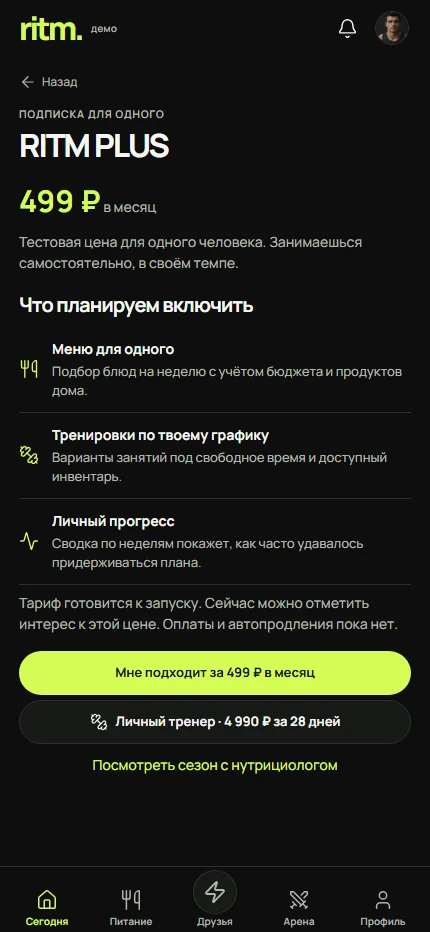
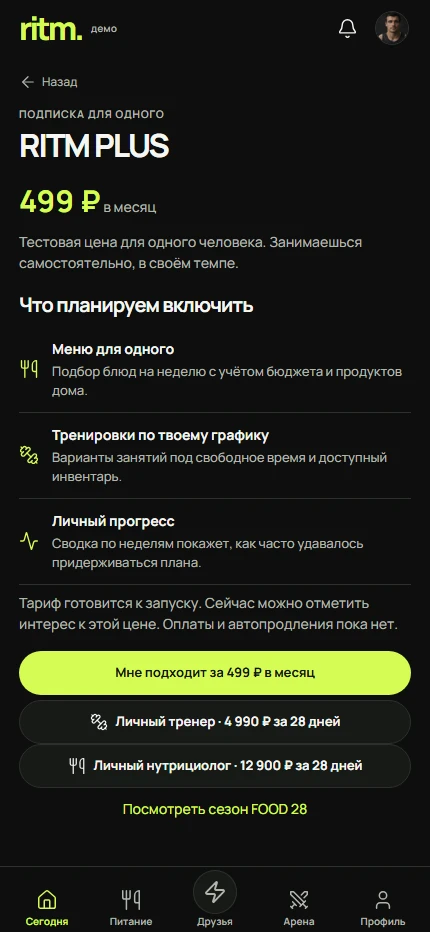
Publish the introductory nutrition rate in the meeting demo

Changed region(s): [[0.1512, 0.809, 0.8465, 0.8712]]

diff --git a/docs/meeting/screens/index.html b/docs/meeting/screens/index.html
@@ -1,3 +1,3 @@
 <!DOCTYPE html>
 
-<html lang="ru"><meta charset="utf-8"/><meta content="width=device-width,initial-scale=1" name="viewport"/><title>ritm. — Экраны приложения</title><link href="../assets/fonts.css" rel="stylesheet"/><style>*{box-sizing:border-box}body{margin:0 auto;background:#0d0e0d;color:#f5f6f2;max-width:1100px;padding:24px 18px 70px;font:500 15px/1.45 "Manrope Variable",sans-serif}header{display:flex;align-items:center;justify-content:space-between}header b{font-size:30px;letter-spacing:-.08em;color:#d5fc53}a{color:#d5fc53;text-underline-offset:.2em}h1{letter-spacing:-.05em;font-size:clamp(31px,6vw,54px);line-height:1.1}h2{border-top:1px solid #353831;padding-top:20px;margin:30px 0 12px}.grid{display:grid;grid-template-columns:repeat(auto-fit,minmax(min(158px,44%),1fr));gap:15px}.image{display:block;max-width:240px;border-radius:14px;overflow:hidden;border:1px solid #343930}img{display:block;width:100%;height:auto}h3{font-size:15px;margin:8px 0 1px}p{margin:4px 0;color:#b1b6ac;font-size:13px}article>p a{display:inline-block;padding:5px 0}</style><header><b>ritm.</b><a href="../?screen=programs">Открыть приложение ↗</a></header><h1>Экраны RITM</h1><p>Снимки работающего приложения. Нажми на экран, чтобы рассмотреть детали.</p><a href="RITM-meeting.pdf">PDF для встречи · Founder Preview 1.0</a><section id="solo"><h2>Начать самостоятельно</h2><div class="grid"><article><a class="image" href="solo-programs-390.webp"><img alt="Выбрать программу для себя" loading="lazy" src="solo-programs-390.webp"/></a><h3>Выбрать программу для себя</h3><p><a href="solo-programs-375.webp">375 px</a> · <a href="solo-programs-390.webp">390 px</a> · <a href="solo-programs-430.webp">430 px</a></p></article><article><a class="image" href="plus-390.webp"><img alt="RITM PLUS · тариф для одного" loading="lazy" src="plus-390.webp"/></a><h3>Личный тариф за 499 ₽ в месяц</h3><p><a href="plus-375.webp">375 px</a> · <a href="plus-390.webp">390 px</a> · <a href="plus-430.webp">430 px</a></p></article><article><a class="image" href="coach-390.webp"><img alt="Личный тренер на 28 дней" loading="lazy" src="coach-390.webp"/></a><h3>Личный тренер · 4 990 ₽ за 28 дней</h3><p><a href="coach-375.webp">375 px</a> · <a href="coach-390.webp">390 px</a> · <a href="coach-430.webp">430 px</a></p></article><article><a class="image" href="solo-question-390.webp"><img alt="Получить подсказку по двум ответам" loading="lazy" src="solo-question-390.webp"/></a><h3>Получить подсказку по двум ответам</h3><p><a href="solo-question-375.webp">375 px</a> · <a href="solo-question-390.webp">390 px</a> · <a href="solo-question-430.webp">430 px</a></p></article><article><a class="image" href="solo-food-390.webp"><img alt="Выбрать блюдо на одного" loading="lazy" src="solo-food-390.webp"/></a><h3>Выбрать блюдо на одного</h3><p><a href="solo-food-375.webp">375 px</a> · <a href="solo-food-390.webp">390 px</a> · <a href="solo-food-430.webp">430 px</a></p></article><article><a class="image" href="solo-friends-390.webp"><img alt="Предложить другу выбрать ход" loading="lazy" src="solo-friends-390.webp"/></a><h3>Предложить другу выбрать ход</h3><p><a href="solo-friends-375.webp">375 px</a> · <a href="solo-friends-390.webp">390 px</a> · <a href="solo-friends-430.webp">430 px</a></p></article></div></section><section><h2>Первый вход</h2><div class="grid"><article><a class="image" href="welcome-390.webp"><img alt="Первое открытие" loading="lazy" src="welcome-390.webp"/></a><h3>Первое открытие</h3><p><a href="welcome-375.webp">375 px</a> · <a href="welcome-390.webp">390 px</a> · <a href="welcome-430.webp">430 px</a></p></article><article><a class="image" href="invite-code-390.webp"><img alt="Вход по приглашению" loading="lazy" src="invite-code-390.webp"/></a><h3>Вход по приглашению</h3><p><a href="invite-code-390.webp">390 px</a></p></article><article><a class="image" href="start-1-390.webp"><img alt="С чего хочешь начать?" loading="lazy" src="start-1-390.webp"/></a><h3>С чего хочешь начать?</h3><p><a href="start-1-390.webp">390 px</a></p></article><article><a class="image" href="start-2-390.webp"><img alt="Сколько времени есть в день?" loading="lazy" src="start-2-390.webp"/></a><h3>Сколько времени есть в день?</h3><p><a href="start-2-390.webp">390 px</a></p></article><article><a class="image" href="guest-390.webp"><img alt="Гостевой вход" loading="lazy" src="guest-390.webp"/></a><h3>Гостевой вход</h3><p><a href="guest-390.webp">390 px</a></p></article></div></section><section><h2>Сегодня</h2><div class="grid"><article><a class="image" href="today-390.webp"><img alt="В своём ритме" loading="lazy" src="today-390.webp"/></a><h3>В своём ритме</h3><p><a href="today-375.webp">375 px</a> · <a href="today-390.webp">390 px</a> · <a href="today-430.webp">430 px</a></p></article><article><a class="image" href="time-390.webp"><img alt="Доступное время" loading="lazy" src="time-390.webp"/></a><h3>Доступное время</h3><p><a href="time-390.webp">390 px</a></p></article><article><a class="image" href="plan-390.webp"><img alt="Мой план" loading="lazy" src="plan-390.webp"/></a><h3>Мой план</h3><p><a href="plan-390.webp">390 px</a></p></article><article><a class="image" href="ai-390.webp"><img alt="Подстроить план" loading="lazy" src="ai-390.webp"/></a><h3>Подстроить план</h3><p><a href="ai-390.webp">390 px</a></p></article><article><a class="image" href="notifications-390.webp"><img alt="Уведомления" loading="lazy" src="notifications-390.webp"/></a><h3>Уведомления</h3><p><a href="notifications-390.webp">390 px</a></p></article></div></section><section><h2>Питание</h2><div class="grid"><article><a class="image" href="food-390.webp"><img alt="Твоё питание" loading="lazy" src="food-390.webp"/></a><h3>Твоё питание</h3><p><a href="food-375.webp">375 px</a> · <a href="food-390.webp">390 px</a> · <a href="food-430.webp">430 px</a></p></article><article><a class="image" href="pantry-390.webp"><img alt="Из того, что дома" loading="lazy" src="pantry-390.webp"/></a><h3>Из того, что дома</h3><p><a href="pantry-390.webp">390 px</a></p></article><article><a class="image" href="recipe-390.webp"><img alt="Рецепт и порции" loading="lazy" src="recipe-390.webp"/></a><h3>Рецепт и порции</h3><p><a href="recipe-390.webp">390 px</a></p></article><article><a class="image" href="week-390.webp"><img alt="Меню на неделю" loading="lazy" src="week-390.webp"/></a><h3>Меню на неделю</h3><p><a href="week-390.webp">390 px</a></p></article><article><a class="image" href="cart-390.webp"><img alt="Продуктовая корзина" loading="lazy" src="cart-390.webp"/></a><h3>Продуктовая корзина</h3><p><a href="cart-390.webp">390 px</a></p></article></div></section><section><h2>Тренировки</h2><div class="grid"><article><a class="image" href="train-390.webp"><img alt="Твои тренировки" loading="lazy" src="train-390.webp"/></a><h3>Твои тренировки</h3><p><a href="train-375.webp">375 px</a> · <a href="train-390.webp">390 px</a> · <a href="train-430.webp">430 px</a></p></article><article><a class="image" href="work-390.webp"><img alt="Силовой блок" loading="lazy" src="work-390.webp"/></a><h3>Силовой блок</h3><p><a href="work-390.webp">390 px</a></p></article><article><a class="image" href="tech-390.webp"><img alt="Техника и варианты" loading="lazy" src="tech-390.webp"/></a><h3>Техника и варианты</h3><p><a href="tech-390.webp">390 px</a></p></article></div></section><section><h2>PULSE</h2><div class="grid"><article><a class="image" href="pulse-390.webp"><img alt="Твой круг и лента" loading="lazy" src="pulse-390.webp"/></a><h3>Твой круг и лента</h3><p><a href="pulse-375.webp">375 px</a> · <a href="pulse-390.webp">390 px</a> · <a href="pulse-430.webp">430 px</a></p></article><article><a class="image" href="reply-390.webp"><img alt="Ответить своим делом" loading="lazy" src="reply-390.webp"/></a><h3>Ответить своим делом</h3><p><a href="reply-390.webp">390 px</a></p></article><article><a class="image" href="circle-390.webp"><img alt="Управление кругом" loading="lazy" src="circle-390.webp"/></a><h3>Управление кругом</h3><p><a href="circle-390.webp">390 px</a></p></article><article><a class="image" href="leave-390.webp"><img alt="Выход из круга" loading="lazy" src="leave-390.webp"/></a><h3>Выход из круга</h3><p><a href="leave-390.webp">390 px</a></p></article><article><a class="image" href="together-390.webp"><img alt="Совместное время" loading="lazy" src="together-390.webp"/></a><h3>Совместное время</h3><p><a href="together-390.webp">390 px</a></p></article></div></section><section><h2>Арена</h2><div class="grid"><article><a class="image" href="arena-390.webp"><img alt="Арена и счёт" loading="lazy" src="arena-390.webp"/></a><h3>Арена и счёт</h3><p><a href="arena-375.webp">375 px</a> · <a href="arena-390.webp">390 px</a> · <a href="arena-430.webp">430 px</a></p></article><article><a class="image" href="game-390.webp"><img alt="История дуэли" loading="lazy" src="game-390.webp"/></a><h3>История дуэли</h3><p><a href="game-390.webp">390 px</a></p></article><article><a class="image" href="setup-390.webp"><img alt="Новая дуэль" loading="lazy" src="setup-390.webp"/></a><h3>Новая дуэль</h3><p><a href="setup-390.webp">390 px</a></p></article><article><a class="image" href="share-390.webp"><img alt="Приглашение другу" loading="lazy" src="share-390.webp"/></a><h3>Приглашение другу</h3><p><a href="share-390.webp">390 px</a></p></article></div></section><section><h2>Профиль</h2><div class="grid"><article><a class="image" href="dna-1-390.webp"><img alt="Какова твоя цель?" loading="lazy" src="dna-1-390.webp"/></a><h3>Какова твоя цель?</h3><p><a href="dna-1-390.webp">390 px</a></p></article><article><a class="image" href="dna-2-390.webp"><img alt="Какое изменение особенно важно?" loading="lazy" src="dna-2-390.webp"/></a><h3>Какое изменение особенно важно?</h3><p><a href="dna-2-390.webp">390 px</a></p></article><article><a class="image" href="dna-3-390.webp"><img alt="Какой уровень тебе близок?" loading="lazy" src="dna-3-390.webp"/></a><h3>Какой уровень тебе близок?</h3><p><a href="dna-3-390.webp">390 px</a></p></article><article><a class="image" href="dna-4-390.webp"><img alt="Как давно ты тренируешься?" loading="lazy" src="dna-4-390.webp"/></a><h3>Как давно ты тренируешься?</h3><p><a href="dna-4-390.webp">390 px</a></p></article><article><a class="image" href="dna-5-390.webp"><img alt="Сколько времени обычно есть?" loading="lazy" src="dna-5-390.webp"/></a><h3>Сколько времени обычно есть?</h3><p><a href="dna-5-390.webp">390 px</a></p></article><article><a class="image" href="dna-6-390.webp"><img alt="Где удобнее заниматься?" loading="lazy" src="dna-6-390.webp"/></a><h3>Где удобнее заниматься?</h3><p><a href="dna-6-390.webp">390 px</a></p></article><article><a class="image" href="dna-7-390.webp"><img alt="Какое оборудование доступно?" loading="lazy" src="dna-7-390.webp"/></a><h3>Какое оборудование доступно?</h3><p><a href="dna-7-390.webp">390 px</a></p></article><article><a class="image" href="dna-8-390.webp"><img alt="Какую еду выбираешь?" loading="lazy" src="dna-8-390.webp"/></a><h3>Какую еду выбираешь?</h3><p><a href="dna-8-390.webp">390 px</a></p></article><article><a class="image" href="dna-9-390.webp"><img alt="Есть продукты, которые исключить?" loading="lazy" src="dna-9-390.webp"/></a><h3>Есть продукты, которые исключить?</h3><p><a href="dna-9-390.webp">390 px</a></p></article><article><a class="image" href="dna-10-390.webp"><img alt="Что важнее при выборе продуктов?" loading="lazy" src="dna-10-390.webp"/></a><h3>Что важнее при выборе продуктов?</h3><p><a href="dna-10-390.webp">390 px</a></p></article><article><a class="image" href="dna-11-390.webp"><img alt="Что чаще мешает продолжать?" loading="lazy" src="dna-11-390.webp"/></a><h3>Что чаще мешает продолжать?</h3><p><a href="dna-11-390.webp">390 px</a></p></article><article><a class="image" href="dna-12-390.webp"><img alt="Что помогает вернуться?" loading="lazy" src="dna-12-390.webp"/></a><h3>Что помогает вернуться?</h3><p><a href="dna-12-390.webp">390 px</a></p></article><article><a class="image" href="dna-13-390.webp"><img alt="Как хочешь заниматься?" loading="lazy" src="dna-13-390.webp"/></a><h3>Как хочешь заниматься?</h3><p><a href="dna-13-390.webp">390 px</a></p></article><article><a class="image" href="dna-map-390.webp"><img alt="Мои предпочтения" loading="lazy" src="dna-map-390.webp"/></a><h3>Мои предпочтения</h3><p><a href="dna-map-390.webp">390 px</a></p></article><article><a class="image" href="profile-390.webp"><img alt="Личный профиль" loading="lazy" src="profile-390.webp"/></a><h3>Личный профиль</h3><p><a href="profile-375.webp">375 px</a> · <a href="profile-390.webp">390 px</a> · <a href="profile-430.webp">430 px</a></p></article><article><a class="image" href="checkin-390.webp"><img alt="Личные замеры" loading="lazy" src="checkin-390.webp"/></a><h3>Личные замеры</h3><p><a href="checkin-390.webp">390 px</a></p></article><article><a class="image" href="seasonplan-390.webp"><img alt="Настройка сезона" loading="lazy" src="seasonplan-390.webp"/></a><h3>Настройка сезона</h3><p><a href="seasonplan-390.webp">390 px</a></p></article><article><a class="image" href="recap-390.webp"><img alt="Недельный отчёт" loading="lazy" src="recap-390.webp"/></a><h3>Недельный отчёт</h3><p><a href="recap-390.webp">390 px</a></p></article><article><a class="image" href="settings-390.webp"><img alt="Настройки и доступ" loading="lazy" src="settings-390.webp"/></a><h3>Настройки и доступ</h3><p><a href="settings-390.webp">390 px</a></p></article><article><a class="image" href="privacy-390.webp"><img alt="Приватность действий" loading="lazy" src="privacy-390.webp"/></a><h3>Приватность действий</h3><p><a href="privacy-390.webp">390 px</a></p></article></div></section><section><h2>Эксперты</h2><div class="grid"><article><a class="image" href="experts-390.webp"><img alt="Экспертные направления" loading="lazy" src="experts-390.webp"/></a><h3>Экспертные направления</h3><p><a href="experts-375.webp">375 px</a> · <a href="experts-390.webp">390 px</a> · <a href="experts-430.webp">430 px</a></p></article><article><a class="image" href="expert-food-390.webp"><img alt="Нутрициолог" loading="lazy" src="expert-food-390.webp"/></a><h3>Нутрициолог</h3><p><a href="expert-food-390.webp">390 px</a></p></article><article><a class="image" href="expert-train-390.webp"><img alt="Тренер" loading="lazy" src="expert-train-390.webp"/></a><h3>Тренер</h3><p><a href="expert-train-390.webp">390 px</a></p></article></div></section><section><h2>Сезоны</h2><div class="grid"><article><a class="image" href="solo-start-390.webp"><img alt="Личная программа" loading="lazy" src="solo-start-390.webp"/></a><h3>Личная программа</h3><p><a href="solo-start-390.webp">390 px</a></p></article><article><a class="image" href="store-390.webp"><img alt="Личные программы и сезоны" loading="lazy" src="store-390.webp"/></a><h3>Личные программы и сезоны</h3><p><a href="store-375.webp">375 px</a> · <a href="store-390.webp">390 px</a> · <a href="store-430.webp">430 px</a></p></article><article><a class="image" href="food-28-390.webp"><img alt="FOOD 28" loading="lazy" src="food-28-390.webp"/></a><h3>FOOD 28</h3><p><a href="food-28-390.webp">390 px</a></p></article><article><a class="image" href="reset-28-390.webp"><img alt="RESET 28" loading="lazy" src="reset-28-390.webp"/></a><h3>RESET 28</h3><p><a href="reset-28-390.webp">390 px</a></p></article><article><a class="image" href="duo-28-390.webp"><img alt="DUO 28" loading="lazy" src="duo-28-390.webp"/></a><h3>DUO 28</h3><p><a href="duo-28-390.webp">390 px</a></p></article><article><a class="image" href="order-390.webp"><img alt="Заявка на сезон" loading="lazy" src="order-390.webp"/></a><h3>Заявка на сезон</h3><p><a href="order-390.webp">390 px</a></p></article></div></section><section><h2>От приглашения до следующего сезона · Founder Preview 1.0</h2><div class="grid"><article><a class="image" href="choice-guest.webp"><img alt="Гостевой выбор" loading="lazy" src="choice-guest.webp"/></a><h3>Гостевой выбор</h3></article><article><a class="image" href="choice-result.webp"><img alt="Выполненный ход" loading="lazy" src="choice-result.webp"/></a><h3>Выполненный ход</h3></article><article><a class="image" href="offer.webp"><img alt="Условия RESET LEAGUE" loading="lazy" src="offer.webp"/></a><h3>Условия RESET LEAGUE</h3></article><article><a class="image" href="payment.webp"><img alt="Подтверждение учебной оплаты" loading="lazy" src="payment.webp"/></a><h3>Подтверждение учебной оплаты</h3></article><article><a class="image" href="support.webp"><img alt="Ответ нутрициолога" loading="lazy" src="support.webp"/></a><h3>Ответ нутрициолога</h3></article><article><a class="image" href="desk.webp"><img alt="Кабинет специалиста" loading="lazy" src="desk.webp"/></a><h3>Кабинет специалиста</h3></article><article><a class="image" href="journey.webp"><img alt="История сезонов" loading="lazy" src="journey.webp"/></a><h3>История сезонов</h3></article></div></section></html>
+<html lang="ru"><meta charset="utf-8"/><meta content="width=device-width,initial-scale=1" name="viewport"/><title>ritm. — Экраны приложения</title><link href="../assets/fonts.css" rel="stylesheet"/><style>*{box-sizing:border-box}body{margin:0 auto;background:#0d0e0d;color:#f5f6f2;max-width:1100px;padding:24px 18px 70px;font:500 15px/1.45 "Manrope Variable",sans-serif}header{display:flex;align-items:center;justify-content:space-between}header b{font-size:30px;letter-spacing:-.08em;color:#d5fc53}a{color:#d5fc53;text-underline-offset:.2em}h1{letter-spacing:-.05em;font-size:clamp(31px,6vw,54px);line-height:1.1}h2{border-top:1px solid #353831;padding-top:20px;margin:30px 0 12px}.grid{display:grid;grid-template-columns:repeat(auto-fit,minmax(min(158px,44%),1fr));gap:15px}.image{display:block;max-width:240px;border-radius:14px;overflow:hidden;border:1px solid #343930}img{display:block;width:100%;height:auto}h3{font-size:15px;margin:8px 0 1px}p{margin:4px 0;color:#b1b6ac;font-size:13px}article>p a{display:inline-block;padding:5px 0}</style><header><b>ritm.</b><a href="../?screen=programs">Открыть приложение ↗</a></header><h1>Экраны RITM</h1><p>Снимки работающего приложения. Нажми на экран, чтобы рассмотреть детали.</p><a href="RITM-meeting.pdf">PDF для встречи · Founder Preview 1.0</a><section id="solo"><h2>Начать самостоятельно</h2><div class="grid"><article><a class="image" href="solo-programs-390.webp"><img alt="Выбрать программу для себя" loading="lazy" src="solo-programs-390.webp"/></a><h3>Выбрать программу для себя</h3><p><a href="solo-programs-375.webp">375 px</a> · <a href="solo-programs-390.webp">390 px</a> · <a href="solo-programs-430.webp">430 px</a></p></article><article><a class="image" href="plus-390.webp"><img alt="RITM PLUS · тариф для одного" loading="lazy" src="plus-390.webp"/></a><h3>Личный тариф за 499 ₽ в месяц</h3><p><a href="plus-375.webp">375 px</a> · <a href="plus-390.webp">390 px</a> · <a href="plus-430.webp">430 px</a></p></article><article><a class="image" href="coach-390.webp"><img alt="Личный тренер на 28 дней" loading="lazy" src="coach-390.webp"/></a><h3>Личный тренер · 4 990 ₽ за 28 дней</h3><p><a href="coach-375.webp">375 px</a> · <a href="coach-390.webp">390 px</a> · <a href="coach-430.webp">430 px</a></p></article><article><a class="image" href="nutritionist-390.webp"><img alt="Личный нутрициолог на 28 дней" loading="lazy" src="nutritionist-390.webp"/></a><h3>Личный нутрициолог · 12 900 ₽ за 28 дней</h3><p><a href="nutritionist-375.webp">375 px</a> · <a href="nutritionist-390.webp">390 px</a> · <a href="nutritionist-430.webp">430 px</a></p></article><article><a class="image" href="solo-question-390.webp"><img alt="Получить подсказку по двум ответам" loading="lazy" src="solo-question-390.webp"/></a><h3>Получить подсказку по двум ответам</h3><p><a href="solo-question-375.webp">375 px</a> · <a href="solo-question-390.webp">390 px</a> · <a href="solo-question-430.webp">430 px</a></p></article><article><a class="image" href="solo-food-390.webp"><img alt="Выбрать блюдо на одного" loading="lazy" src="solo-food-390.webp"/></a><h3>Выбрать блюдо на одного</h3><p><a href="solo-food-375.webp">375 px</a> · <a href="solo-food-390.webp">390 px</a> · <a href="solo-food-430.webp">430 px</a></p></article><article><a class="image" href="solo-friends-390.webp"><img alt="Предложить другу выбрать ход" loading="lazy" src="solo-friends-390.webp"/></a><h3>Предложить другу выбрать ход</h3><p><a href="solo-friends-375.webp">375 px</a> · <a href="solo-friends-390.webp">390 px</a> · <a href="solo-friends-430.webp">430 px</a></p></article></div></section><section><h2>Первый вход</h2><div class="grid"><article><a class="image" href="welcome-390.webp"><img alt="Первое открытие" loading="lazy" src="welcome-390.webp"/></a><h3>Первое открытие</h3><p><a href="welcome-375.webp">375 px</a> · <a href="welcome-390.webp">390 px</a> · <a href="welcome-430.webp">430 px</a></p></article><article><a class="image" href="invite-code-390.webp"><img alt="Вход по приглашению" loading="lazy" src="invite-code-390.webp"/></a><h3>Вход по приглашению</h3><p><a href="invite-code-390.webp">390 px</a></p></article><article><a class="image" href="start-1-390.webp"><img alt="С чего хочешь начать?" loading="lazy" src="start-1-390.webp"/></a><h3>С чего хочешь начать?</h3><p><a href="start-1-390.webp">390 px</a></p></article><article><a class="image" href="start-2-390.webp"><img alt="Сколько времени есть в день?" loading="lazy" src="start-2-390.webp"/></a><h3>Сколько времени есть в день?</h3><p><a href="start-2-390.webp">390 px</a></p></article><article><a class="image" href="guest-390.webp"><img alt="Гостевой вход" loading="lazy" src="guest-390.webp"/></a><h3>Гостевой вход</h3><p><a href="guest-390.webp">390 px</a></p></article></div></section><section><h2>Сегодня</h2><div class="grid"><article><a class="image" href="today-390.webp"><img alt="В своём ритме" loading="lazy" src="today-390.webp"/></a><h3>В своём ритме</h3><p><a href="today-375.webp">375 px</a> · <a href="today-390.webp">390 px</a> · <a href="today-430.webp">430 px</a></p></article><article><a class="image" href="time-390.webp"><img alt="Доступное время" loading="lazy" src="time-390.webp"/></a><h3>Доступное время</h3><p><a href="time-390.webp">390 px</a></p></article><article><a class="image" href="plan-390.webp"><img alt="Мой план" loading="lazy" src="plan-390.webp"/></a><h3>Мой план</h3><p><a href="plan-390.webp">390 px</a></p></article><article><a class="image" href="ai-390.webp"><img alt="Подстроить план" loading="lazy" src="ai-390.webp"/></a><h3>Подстроить план</h3><p><a href="ai-390.webp">390 px</a></p></article><article><a class="image" href="notifications-390.webp"><img alt="Уведомления" loading="lazy" src="notifications-390.webp"/></a><h3>Уведомления</h3><p><a href="notifications-390.webp">390 px</a></p></article></div></section><section><h2>Питание</h2><div class="grid"><article><a class="image" href="food-390.webp"><img alt="Твоё питание" loading="lazy" src="food-390.webp"/></a><h3>Твоё питание</h3><p><a href="food-375.webp">375 px</a> · <a href="food-390.webp">390 px</a> · <a href="food-430.webp">430 px</a></p></article><article><a class="image" href="pantry-390.webp"><img alt="Из того, что дома" loading="lazy" src="pantry-390.webp"/></a><h3>Из того, что дома</h3><p><a href="pantry-390.webp">390 px</a></p></article><article><a class="image" href="recipe-390.webp"><img alt="Рецепт и порции" loading="lazy" src="recipe-390.webp"/></a><h3>Рецепт и порции</h3><p><a href="recipe-390.webp">390 px</a></p></article><article><a class="image" href="week-390.webp"><img alt="Меню на неделю" loading="lazy" src="week-390.webp"/></a><h3>Меню на неделю</h3><p><a href="week-390.webp">390 px</a></p></article><article><a class="image" href="cart-390.webp"><img alt="Продуктовая корзина" loading="lazy" src="cart-390.webp"/></a><h3>Продуктовая корзина</h3><p><a href="cart-390.webp">390 px</a></p></article></div></section><section><h2>Тренировки</h2><div class="grid"><article><a class="image" href="train-390.webp"><img alt="Твои тренировки" loading="lazy" src="train-390.webp"/></a><h3>Твои тренировки</h3><p><a href="train-375.webp">375 px</a> · <a href="train-390.webp">390 px</a> · <a href="train-430.webp">430 px</a></p></article><article><a class="image" href="work-390.webp"><img alt="Силовой блок" loading="lazy" src="work-390.webp"/></a><h3>Силовой блок</h3><p><a href="work-390.webp">390 px</a></p></article><article><a class="image" href="tech-390.webp"><img alt="Техника и варианты" loading="lazy" src="tech-390.webp"/></a><h3>Техника и варианты</h3><p><a href="tech-390.webp">390 px</a></p></article></div></section><section><h2>PULSE</h2><div class="grid"><article><a class="image" href="pulse-390.webp"><img alt="Твой круг и лента" loading="lazy" src="pulse-390.webp"/></a><h3>Твой круг и лента</h3><p><a href="pulse-375.webp">375 px</a> · <a href="pulse-390.webp">390 px</a> · <a href="pulse-430.webp">430 px</a></p></article><article><a class="image" href="reply-390.webp"><img alt="Ответить своим делом" loading="lazy" src="reply-390.webp"/></a><h3>Ответить своим делом</h3><p><a href="reply-390.webp">390 px</a></p></article><article><a class="image" href="circle-390.webp"><img alt="Управление кругом" loading="lazy" src="circle-390.webp"/></a><h3>Управление кругом</h3><p><a href="circle-390.webp">390 px</a></p></article><article><a class="image" href="leave-390.webp"><img alt="Выход из круга" loading="lazy" src="leave-390.webp"/></a><h3>Выход из круга</h3><p><a href="leave-390.webp">390 px</a></p></article><article><a class="image" href="together-390.webp"><img alt="Совместное время" loading="lazy" src="together-390.webp"/></a><h3>Совместное время</h3><p><a href="together-390.webp">390 px</a></p></article></div></section><section><h2>Арена</h2><div class="grid"><article><a class="image" href="arena-390.webp"><img alt="Арена и счёт" loading="lazy" src="arena-390.webp"/></a><h3>Арена и счёт</h3><p><a href="arena-375.webp">375 px</a> · <a href="arena-390.webp">390 px</a> · <a href="arena-430.webp">430 px</a></p></article><article><a class="image" href="game-390.webp"><img alt="История дуэли" loading="lazy" src="game-390.webp"/></a><h3>История дуэли</h3><p><a href="game-390.webp">390 px</a></p></article><article><a class="image" href="setup-390.webp"><img alt="Новая дуэль" loading="lazy" src="setup-390.webp"/></a><h3>Новая дуэль</h3><p><a href="setup-390.webp">390 px</a></p></article><article><a class="image" href="share-390.webp"><img alt="Приглашение другу" loading="lazy" src="share-390.webp"/></a><h3>Приглашение другу</h3><p><a href="share-390.webp">390 px</a></p></article></div></section><section><h2>Профиль</h2><div class="grid"><article><a class="image" href="dna-1-390.webp"><img alt="Какова твоя цель?" loading="lazy" src="dna-1-390.webp"/></a><h3>Какова твоя цель?</h3><p><a href="dna-1-390.webp">390 px</a></p></article><article><a class="image" href="dna-2-390.webp"><img alt="Какое изменение особенно важно?" loading="lazy" src="dna-2-390.webp"/></a><h3>Какое изменение особенно важно?</h3><p><a href="dna-2-390.webp">390 px</a></p></article><article><a class="image" href="dna-3-390.webp"><img alt="Какой уровень тебе близок?" loading="lazy" src="dna-3-390.webp"/></a><h3>Какой уровень тебе близок?</h3><p><a href="dna-3-390.webp">390 px</a></p></article><article><a class="image" href="dna-4-390.webp"><img alt="Как давно ты тренируешься?" loading="lazy" src="dna-4-390.webp"/></a><h3>Как давно ты тренируешься?</h3><p><a href="dna-4-390.webp">390 px</a></p></article><article><a class="image" href="dna-5-390.webp"><img alt="Сколько времени обычно есть?" loading="lazy" src="dna-5-390.webp"/></a><h3>Сколько времени обычно есть?</h3><p><a href="dna-5-390.webp">390 px</a></p></article><article><a class="image" href="dna-6-390.webp"><img alt="Где удобнее заниматься?" loading="lazy" src="dna-6-390.webp"/></a><h3>Где удобнее заниматься?</h3><p><a href="dna-6-390.webp">390 px</a></p></article><article><a class="image" href="dna-7-390.webp"><img alt="Какое оборудование доступно?" loading="lazy" src="dna-7-390.webp"/></a><h3>Какое оборудование доступно?</h3><p><a href="dna-7-390.webp">390 px</a></p></article><article><a class="image" href="dna-8-390.webp"><img alt="Какую еду выбираешь?" loading="lazy" src="dna-8-390.webp"/></a><h3>Какую еду выбираешь?</h3><p><a href="dna-8-390.webp">390 px</a></p></article><article><a class="image" href="dna-9-390.webp"><img alt="Есть продукты, которые исключить?" loading="lazy" src="dna-9-390.webp"/></a><h3>Есть продукты, которые исключить?</h3><p><a href="dna-9-390.webp">390 px</a></p></article><article><a class="image" href="dna-10-390.webp"><img alt="Что важнее при выборе продуктов?" loading="lazy" src="dna-10-390.webp"/></a><h3>Что важнее при выборе продуктов?</h3><p><a href="dna-10-390.webp">390 px</a></p></article><article><a class="image" href="dna-11-390.webp"><img alt="Что чаще мешает продолжать?" loading="lazy" src="dna-11-390.webp"/></a><h3>Что чаще мешает продолжать?</h3><p><a href="dna-11-390.webp">390 px</a></p></article><article><a class="image" href="dna-12-390.webp"><img alt="Что помогает вернуться?" loading="lazy" src="dna-12-390.webp"/></a><h3>Что помогает вернуться?</h3><p><a href="dna-12-390.webp">390 px</a></p></article><article><a class="image" href="dna-13-390.webp"><img alt="Как хочешь заниматься?" loading="lazy" src="dna-13-390.webp"/></a><h3>Как хочешь заниматься?</h3><p><a href="dna-13-390.webp">390 px</a></p></article><article><a class="image" href="dna-map-390.webp"><img alt="Мои предпочтения" loading="lazy" src="dna-map-390.webp"/></a><h3>Мои предпочтения</h3><p><a href="dna-map-390.webp">390 px</a></p></article><article><a class="image" href="profile-390.webp"><img alt="Личный профиль" loading="lazy" src="profile-390.webp"/></a><h3>Личный профиль</h3><p><a href="profile-375.webp">375 px</a> · <a href="profile-390.webp">390 px</a> · <a href="profile-430.webp">430 px</a></p></article><article><a class="image" href="checkin-390.webp"><img alt="Личные замеры" loading="lazy" src="checkin-390.webp"/></a><h3>Личные замеры</h3><p><a href="checkin-390.webp">390 px</a></p></article><article><a class="image" href="seasonplan-390.webp"><img alt="Настройка сезона" loading="lazy" src="seasonplan-390.webp"/></a><h3>Настройка сезона</h3><p><a href="seasonplan-390.webp">390 px</a></p></article><article><a class="image" href="recap-390.webp"><img alt="Недельный отчёт" loading="lazy" src="recap-390.webp"/></a><h3>Недельный отчёт</h3><p><a href="recap-390.webp">390 px</a></p></article><article><a class="image" href="settings-390.webp"><img alt="Настройки и доступ" loading="lazy" src="settings-390.webp"/></a><h3>Настройки и доступ</h3><p><a href="settings-390.webp">390 px</a></p></article><article><a class="image" href="privacy-390.webp"><img alt="Приватность действий" loading="lazy" src="privacy-390.webp"/></a><h3>Приватность действий</h3><p><a href="privacy-390.webp">390 px</a></p></article></div></section><section><h2>Эксперты</h2><div class="grid"><article><a class="image" href="experts-390.webp"><img alt="Экспертные направления" loading="lazy" src="experts-390.webp"/></a><h3>Экспертные направления</h3><p><a href="experts-375.webp">375 px</a> · <a href="experts-390.webp">390 px</a> · <a href="experts-430.webp">430 px</a></p></article><article><a class="image" href="expert-food-390.webp"><img alt="Нутрициолог" loading="lazy" src="expert-food-390.webp"/></a><h3>Нутрициолог</h3><p><a href="expert-food-390.webp">390 px</a></p></article><article><a class="image" href="expert-train-390.webp"><img alt="Тренер" loading="lazy" src="expert-train-390.webp"/></a><h3>Тренер</h3><p><a href="expert-train-390.webp">390 px</a></p></article></div></section><section><h2>Сезоны</h2><div class="grid"><article><a class="image" href="solo-start-390.webp"><img alt="Личная программа" loading="lazy" src="solo-start-390.webp"/></a><h3>Личная программа</h3><p><a href="solo-start-390.webp">390 px</a></p></article><article><a class="image" href="store-390.webp"><img alt="Личные программы и сезоны" loading="lazy" src="store-390.webp"/></a><h3>Личные программы и сезоны</h3><p><a href="store-375.webp">375 px</a> · <a href="store-390.webp">390 px</a> · <a href="store-430.webp">430 px</a></p></article><article><a class="image" href="food-28-390.webp"><img alt="FOOD 28" loading="lazy" src="food-28-390.webp"/></a><h3>FOOD 28</h3><p><a href="food-28-390.webp">390 px</a></p></article><article><a class="image" href="reset-28-390.webp"><img alt="RESET 28" loading="lazy" src="reset-28-390.webp"/></a><h3>RESET 28</h3><p><a href="reset-28-390.webp">390 px</a></p></article><article><a class="image" href="duo-28-390.webp"><img alt="DUO 28" loading="lazy" src="duo-28-390.webp"/></a><h3>DUO 28</h3><p><a href="duo-28-390.webp">390 px</a></p></article><article><a class="image" href="order-390.webp"><img alt="Заявка на сезон" loading="lazy" src="order-390.webp"/></a><h3>Заявка на сезон</h3><p><a href="order-390.webp">390 px</a></p></article></div></section><section><h2>От приглашения до следующего сезона · Founder Preview 1.0</h2><div class="grid"><article><a class="image" href="choice-guest.webp"><img alt="Гостевой выбор" loading="lazy" src="choice-guest.webp"/></a><h3>Гостевой выбор</h3></article><article><a class="image" href="choice-result.webp"><img alt="Выполненный ход" loading="lazy" src="choice-result.webp"/></a><h3>Выполненный ход</h3></article><article><a class="image" href="offer.webp"><img alt="Условия RESET LEAGUE" loading="lazy" src="offer.webp"/></a><h3>Условия RESET LEAGUE</h3></article><article><a class="image" href="payment.webp"><img alt="Подтверждение учебной оплаты" loading="lazy" src="payment.webp"/></a><h3>Подтверждение учебной оплаты</h3></article><article><a class="image" href="support.webp"><img alt="Ответ нутрициолога" loading="lazy" src="support.webp"/></a><h3>Ответ нутрициолога</h3></article><article><a class="image" href="desk.webp"><img alt="Кабинет специалиста" loading="lazy" src="desk.webp"/></a><h3>Кабинет специалиста</h3></article><article><a class="image" href="journey.webp"><img alt="История сезонов" loading="lazy" src="journey.webp"/></a><h3>История сезонов</h3></article></div></section></html>

diff --git a/docs/meeting/content.js b/docs/meeting/content.js
@@ -27,7 +27,7 @@ const Workouts=[
  {id:'walk',title:'Прогулка в своём темпе',pic:'edition/pair',mins:30,gear:'Без оборудования',theme:'Прогулка',steps:['Выбрать маршрут','Наметить точку разворота','Вернуться и отметить прогулку'],cue:'Подбери маршрут по свободному времени.'}
 ];
 const Catalog={
- NUTRI:{title:'Личный нутрициолог',pic:'edition/nutrition',price:5990,who:'Нутрициолог',content:['На стартовом созвоне до 30 минут вы обсуждаете обычный день, бюджет и время на готовку.','По дневнику питания нутрициолог предлагает выполнимые изменения и замены продуктов под твою жизнь.','Раз в неделю ты получаешь личный письменный разбор и корректировку. За 28 дней будет четыре разбора, последний — с итогом и следующим шагом.']},
+ NUTRI:{title:'Личный нутрициолог',pic:'edition/nutrition',price:12900,who:'Нутрициолог',content:['На стартовом созвоне до 30 минут вы обсуждаете обычный день, бюджет и время на готовку.','По дневнику питания нутрициолог предлагает выполнимые изменения и замены продуктов под твою жизнь.','Раз в неделю ты получаешь личный письменный разбор и корректировку. За 28 дней будет четыре разбора, последний — с итогом и следующим шагом.']},
  TRAIN:{title:'Личный тренер',pic:'edition/coach',price:4990,who:'Фитнес-тренер',content:['На старте тренер уточняет твою цель, опыт, расписание и инвентарь.','Ты получаешь личный план занятий для дома или зала.','Раз в неделю тренер читает твой дневник, отвечает на вопросы и корректирует план. Всего четыре разбора за 28 дней.']},
  FOOD:{title:'Питание на 28 дней',pic:'edition/green',price:2490,who:'Нутрициолог',content:['Меню и корзина на неделю','Замены продуктов','Групповой разбор питания']},
  RESET:{title:'28 дней изменений',pic:'edition/start',price:3490,who:'Тренер и нутрициолог',content:['Личная карта целей','Питание и тренировочный план','Дружеские соревнования','Еженедельные разборы и итог сезона']},

diff --git a/docs/meeting/index.html b/docs/meeting/index.html
@@ -5,4 +5,4 @@
     <use href="#loading-heartbeat" x="168"/>
   </g>
 </svg><noscript><a style="color:#D5FC53" href="./screens/">Посмотреть экраны RITM без JavaScript</a></noscript><p role="status">Открываем твой день…</p></div></main><nav id="nav" aria-label="Основная навигация"></nav></div><div id="toast" role="status" aria-live="polite"></div>
-<script>window.RITM_PREMIUM=true;</script><script src="meeting-start.js?v=solo1"></script><script src="browser.js?rev=nutri1"></script><script src="assets/icons.js"></script><script src="content.js?v=nutri1"></script><script src="season.js"></script><script src="app.js"></script><script src="assets/edition/visual.js"></script><script src="assets/home/view.js?v=solo1"></script><script src="assets/edition/choice.js?v=solo1"></script><script src="assets/edition/lifecycle.js?v=meeting2"></script><script src="assets/edition/programs.js?v=nutri1"></script><script src="premium.js?rev=nutri1"></script></body></html>
+<script>window.RITM_PREMIUM=true;</script><script src="meeting-start.js?v=solo1"></script><script src="browser.js?rev=nutri2"></script><script src="assets/icons.js"></script><script src="content.js?v=nutri2"></script><script src="season.js"></script><script src="app.js"></script><script src="assets/edition/visual.js"></script><script src="assets/home/view.js?v=solo1"></script><script src="assets/edition/choice.js?v=solo1"></script><script src="assets/edition/lifecycle.js?v=meeting2"></script><script src="assets/edition/programs.js?v=nutri2"></script><script src="premium.js?rev=nutri2"></script></body></html>

diff --git a/docs/meeting/browser.js b/docs/meeting/browser.js
@@ -11,7 +11,7 @@ const previewActor=sessionStorage.getItem(sandboxStorageKey)==='friend'?'friend'
 let previewWorker,warmTimer;
 function worker(){
   if (!previewWorker) {
-    previewWorker=new Worker('./worker.js?rev=nutri1'+(homeScenario?'&scenario=home':''));
+    previewWorker=new Worker('./worker.js?rev=nutri2'+(homeScenario?'&scenario=home':''));
     previewWorker.onmessage=receive;previewWorker.onerror=workerError;
   }
   return previewWorker;

diff --git a/docs/meeting/season.py b/docs/meeting/season.py
@@ -8,7 +8,7 @@ import secrets
 from datetime import datetime, timedelta, timezone
 
 OFFERS = {
-    'NUTRI': ('Личный нутрициолог', 5990, 1),
+    'NUTRI': ('Личный нутрициолог', 12900, 1),
     'TRAIN': ('Личный тренер', 4990, 1),
     'FOOD': ('Питание на 28 дней', 2490, 1),
     'RESET': ('28 дней изменений', 3490, 1),
